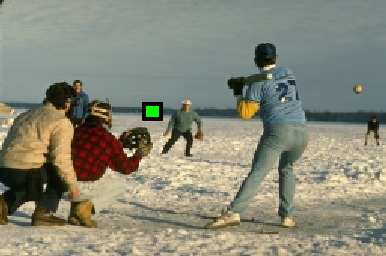
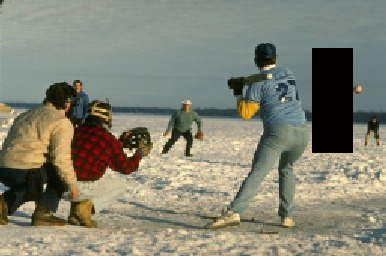
exemple qui fonctionne

Changed region(s): [[0.8083, 0.1875, 0.9326, 0.625], [0.342, 0.375, 0.4352, 0.5]]

diff --git a/node.cpp b/node.cpp
@@ -300,6 +300,15 @@ std::vector<bool> intializeFalseVector(int size){
 
 }
 
+std::vector<bool> intializeTrueVector(int size){
+    std::vector<bool> commitList;
+    for (int i=0;i<size;i++){
+        commitList.push_back(true);
+    }
+    return commitList;
+
+}
+
 
 void Node::normalizeMessage(){
 
@@ -525,10 +534,10 @@ size_t getNodeOfCoord(const std::vector<Node>& InitialPriority, int x,int y) {
     throw std::runtime_error("Node not found");//en ajouter partour
 }
 
-Image forwardPass(std::vector<Node> &InitialPriority,const Image &imageInput, const Image &imageMaskExtended,int patchSize,int thresholdSimilarity,int thresholdConfusion,int lmin,int lmax){
+std::vector<int> forwardPass(std::vector<Node> &InitialPriority, const Image &imageInput, const Image &imageMaskExtended, Image &orderOfVisit, int patchSize, int thresholdSimilarity, int thresholdConfusion, int lmin, int lmax){
     std::vector<int> commitStack;
     std::vector<bool> commitList=intializeFalseVector(InitialPriority.size());
-    Image orderOfVisit=imageMaskExtended.clone();
+    orderOfVisit=imageMaskExtended.clone();
     size_t indexCommitSearch;
     int progression=0;
     for (size_t time=0;time<InitialPriority.size();time++){
@@ -542,6 +551,7 @@ Image forwardPass(std::vector<Node> &InitialPriority,const Image &imageInput, co
             indexCommitSearch++;
         }
         Node currentNode(InitialPriority[indexCommitSearch]);
+
 
 
 
@@ -613,11 +623,10 @@ Image forwardPass(std::vector<Node> &InitialPriority,const Image &imageInput, co
         }
         std::sort(InitialPriority.begin(),InitialPriority.end(),sortArgSize);
     }
-    return orderOfVisit;
+    return commitStack;
 }
 
 Image imageReconstructed(const std::vector<Node> &InitialPriority, int patchSize,Image inputImage,Image maskImage){
-
     Image imageReconstructed=inputImage.clone();
     for (size_t i = InitialPriority.size(); i-- > 0; ) {//cor
         if (true){//InitialPriority[i].size()>1){
@@ -666,6 +675,84 @@ Image visualizeCandidate(const std::vector<Node> &InitialPriority,const Image &i
     return candidate;
 
 }
+
+
+Image backwardPass(std::vector<Node> &InitialPriority,std::vector<int> commitStack,const Image &imageInput, const Image &imageMaskExtended,int patchSize,int thresholdSimilarity,int thresholdConfusion,int lmin,int lmax){
+    std::vector<bool> commitList=intializeTrueVector(InitialPriority.size());
+    Image orderOfVisit=imageMaskExtended.clone();
+    int index;
+    int progression=0;
+    for (size_t time=0;time<InitialPriority.size();time++){
+
+        if (time/100>progression){
+            progression++;
+            std::cout<<time<<"/"<<InitialPriority.size() <<std::endl;
+        }
+        index=commitStack.back();
+        commitStack.pop_back();
+
+        Node currentNode(InitialPriority[getNodeOfIndex(InitialPriority,index)]);
+
+
+
+
+
+
+        commitList[index]=false;
+
+
+        //Temporaire
+        for (int x=-patchSize/2;x<=patchSize/2;x++){
+            for (int y=-patchSize/2;y<=patchSize/2;y++){
+                orderOfVisit(currentNode.getx() +x,currentNode.gety()+y,0)=int((float(time)-1)/float(InitialPriority.size())*255);
+
+            }
+
+        }
+
+        //fin temporaire
+
+
+        if (currentNode.hasLeftNeighbor() &&  commitList[currentNode.getLeftNeighbor()]) {
+
+            int indexLeftNeighbor = getNodeOfIndex(InitialPriority, currentNode.getLeftNeighbor());
+
+
+            InitialPriority[indexLeftNeighbor].updateNodeConfusionSet(currentNode, imageMaskExtended, imageInput, patchSize, thresholdSimilarity, thresholdConfusion, lmin, lmax);
+
+        }
+
+        if (currentNode.hasRightNeighbor() &&  commitList[currentNode.getRightNeighbor()]) {
+            int indexRightNeighbor = getNodeOfIndex(InitialPriority, currentNode.getRightNeighbor());
+
+
+            InitialPriority[indexRightNeighbor].updateNodeConfusionSet(currentNode, imageMaskExtended, imageInput, patchSize, thresholdSimilarity, thresholdConfusion, lmin, lmax);
+
+        }
+
+        if (currentNode.hasTopNeighbor() &&  commitList[currentNode.getTopNeighbor()]) {
+            int indexTopNeighbor = getNodeOfIndex(InitialPriority, currentNode.getTopNeighbor());
+
+
+
+                InitialPriority[indexTopNeighbor].updateNodeConfusionSet(currentNode, imageMaskExtended, imageInput, patchSize, thresholdSimilarity, thresholdConfusion, lmin, lmax);
+
+        }
+
+        if (currentNode.hasBottomNeighbor() &&  commitList[currentNode.getBottomNeighbor()]) {
+            int indexBottomNeighbor = getNodeOfIndex(InitialPriority, currentNode.getBottomNeighbor());
+
+
+
+                InitialPriority[indexBottomNeighbor].updateNodeConfusionSet(currentNode, imageMaskExtended, imageInput, patchSize, thresholdSimilarity, thresholdConfusion, lmin, lmax);
+
+        }
+        std::sort(InitialPriority.begin(),InitialPriority.end(),sortArgSize);
+    }
+    return orderOfVisit;
+}
+
+
 
 
 

diff --git a/main.cpp b/main.cpp
@@ -53,10 +53,10 @@ int main(int argc, char *argv[]) {
         std::cout<<"Une seule image demandée"<<std::endl;
         return 0; //here we only want one picture --> test
     }
-    int patchsize=5;
-    int lmin=3;
-    int lmax=20;
-    int thresholdConfusion =-patchsize*patchsize*1000;//à diminuer
+    int patchsize=17;
+    int lmin=5;
+    int lmax=50;
+    int thresholdConfusion =-patchsize*patchsize*1500;//à diminuer
     int thresholdSimilarity=patchsize*patchsize*500;//à diminuer
 
 
@@ -71,7 +71,7 @@ int main(int argc, char *argv[]) {
     std::string maskPath = std::string(argv[1]) + "/mask_baseball.png";
     Image imageMaskTemp=loadImage(maskPath.c_str());
 
-    Image imageMask=imageMaskTemp.simplifyMaskToOnePixel(152,111,7,7);
+    Image imageMask=imageMaskTemp.simplifyMaskToOnePixel(330,100,10,40);
 
     if(! save_image(std::string(std::string(argv[1]) + "/imageMask.png").c_str(), imageMask)) {
         std::cerr << "Error writing file " << std::endl;
@@ -100,7 +100,7 @@ int main(int argc, char *argv[]) {
     int non_pruned=0;
 
     for (size_t i=0;i<priorities.size();i++){
-        if (priorities[i].size()<20 && priorities[i].size()>1){pruned++;}
+        if (priorities[i].size()<lmax && priorities[i].size()>=lmin){pruned++;}
         if (priorities[i].size()>1){
             non_pruned++;
 
@@ -134,12 +134,45 @@ int main(int argc, char *argv[]) {
         }
 
     }
+    Image orderOfVisit;
 
-    Image orderOfVisit=forwardPass(priorities,imageInput,imageExtendedMask,patchsize,thresholdSimilarity,thresholdConfusion,lmin,lmax);
+    std::vector<int> commitStack =forwardPass(priorities,imageInput,imageExtendedMask,orderOfVisit,patchsize,thresholdSimilarity,thresholdConfusion,lmin,lmax);
+
+    if(! save_image(std::string(std::string(argv[1]) + "/order_visit.png").c_str(), orderOfVisit)) {
+        std::cerr << "Error writing file " << std::endl;
+        return 1;
+    }
+    orderOfVisit=backwardPass(priorities,commitStack,imageInput,imageExtendedMask,patchsize,thresholdSimilarity,thresholdConfusion,lmin,lmax);
+
+    non_pruned=0;
+    pruned=0;
+    for (size_t i=0;i<priorities.size();i++){
+        if (priorities[i].size()<lmax && priorities[i].size()>=lmin){pruned++;}
+        if (priorities[i].size()>1){
+            non_pruned++;
+
+        }
+    }
+    std::cout<<"pourcentage de noeud pruned : "<<float(pruned)/float(non_pruned)<<std::endl;
+
+    commitStack =forwardPass(priorities,imageInput,imageExtendedMask,orderOfVisit,patchsize,thresholdSimilarity,thresholdConfusion,lmin,lmax);
+    orderOfVisit=backwardPass(priorities,commitStack,imageInput,imageExtendedMask,patchsize,thresholdSimilarity,thresholdConfusion,lmin,lmax);
+
+    non_pruned=0;
+    pruned=0;
+    for (size_t i=0;i<priorities.size();i++){
+        if (priorities[i].size()<lmax && priorities[i].size()>=lmin){pruned++;}
+        if (priorities[i].size()>1){
+            non_pruned++;
+
+        }
+    }
+    std::cout<<"pourcentage de noeud pruned : "<<float(pruned)/float(non_pruned)<<std::endl;
 
     for (size_t i=0;i<v.size();i++){
+        Node nodeCandidate=priorities[getNodeOfIndex(priorities,i)];
         Image candidates=visualizeCandidate(priorities,imageInput,patchsize,i);
-        if (!save_image(std::string(std::string(argv[1]) + "/candidates/"+std::to_string(i)+".png").c_str(),candidates)){
+        if (!save_image(std::string(std::string(argv[1]) + "/candidates/x"+std::to_string(nodeCandidate.getx())+"y"+std::to_string(nodeCandidate.gety())+".png").c_str(),candidates)){
             std::cerr << "Error writing file " << std::endl;
             return 1;
         }
@@ -149,10 +182,6 @@ int main(int argc, char *argv[]) {
 
     Image reconstructed=imageReconstructed(priorities,patchsize,imageInput,imageMask);
 
-    if(! save_image(std::string(std::string(argv[1]) + "/order_visit.png").c_str(), orderOfVisit)) {
-        std::cerr << "Error writing file " << std::endl;
-        return 1;
-    }
 
 
     if(! save_image(std::string(std::string(argv[1]) + "/reconstructed.png").c_str(), reconstructed)) {

diff --git a/node.h b/node.h
@@ -49,9 +49,12 @@ public:
         messageFromRight-=minMessage_;
         messageFromTop-=minMessage_;
         messageFromBottom-=minMessage_;
-
-
     }
+
+    Label copy() const {
+        return Label(_point, potential, messageFromLeft, messageFromRight, messageFromTop, messageFromBottom);
+    }
+
 
 
 };
@@ -127,6 +130,17 @@ public:
     void updateNodeConfusionSet(const Node &sender, const Image &imageMaskExtended,const Image &imageInput,int patchSize,int thresholdSimilarity,int pruningThresholdConfusion,int lmin,int lmax);
 
     void normalizeMessage();
+
+    Label getBestLabel() const{
+        Label bestLabel=label(0).copy();
+        for (int i=0;i<size();i++){
+            if (label(i).belief()>bestLabel.belief()){
+                bestLabel=label(i).copy();
+                std::cout<<"0 isnt best label"<<std::cout;
+            }
+        }
+        return bestLabel;
+    };
 };
 
 
@@ -143,9 +157,13 @@ std::vector<Node> assignInitialPriority( const Image& inputImage,const Image& ma
 
 
 
-Image forwardPass(std::vector<Node> &InitialPriority,const Image &imageInput, const Image &imageMaskExtended,int patchSize,int thresholdSimilarity,int thresholdConfusion,int lmin,int lmax);
+std::vector<int> forwardPass(std::vector<Node> &InitialPriority,const Image &imageInput, const Image &imageMaskExtended,Image &orderOfPassage,int patchSize,int thresholdSimilarity,int thresholdConfusion,int lmin,int lmax);
 
 
 Image imageReconstructed(const std::vector<Node> &InitialPriority, int patchSize,Image inputImage,Image maskImage);
 
 Image visualizeCandidate(const std::vector<Node> &InitialPriority,const Image &imageInput,int patchSize, int index);
+
+Image backwardPass(std::vector<Node> &InitialPriority,std::vector<int> commitStack,const Image &imageInput, const Image &imageMaskExtended,int patchSize,int thresholdSimilarity,int thresholdConfusion,int lmin,int lmax);
+
+size_t getNodeOfIndex(const std::vector<Node>& InitialPriority, int j);
